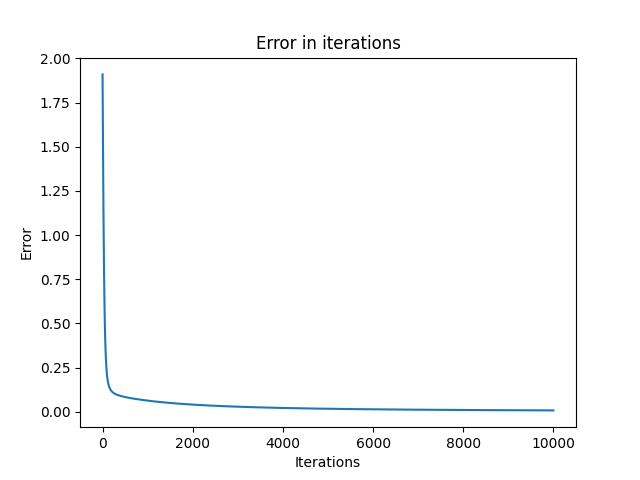
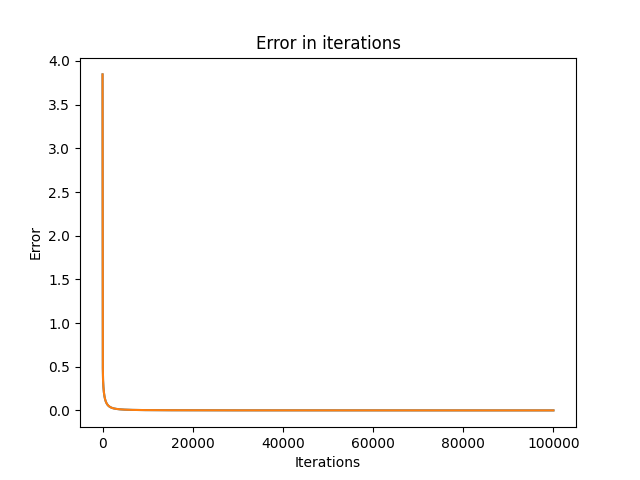
finish 3rd hmwork

diff --git a/neural_networks/neural_networks.py b/neural_networks/neural_networks.py
@@ -3,6 +3,8 @@ import numpy as np
 import matplotlib.pyplot as plt
 from random import random
 
+from data import features, targets, features_test, target_test
+
 class NeuralNetwork:
     def __init__(self):
         # Error Register
@@ -14,8 +16,8 @@ class NeuralNetwork:
     def __repr__(self):
         if self.trained == False:
             return 'No trained network'
-        return 'Neural Network:\n(Weights: {},\nBias: {},\nTrain: {})\n'\
-                .format(list(self.weights.reshape(len(self.weights))), float(self.bias), self.trained)
+        return 'Neural Network:\n(Weights: {},\nBias: {}, Train: {}, Error: {})\n'\
+                .format(list(self.weights.reshape(len(self.weights))), float(self.bias), self.trained, float(self.totError))
 
     @staticmethod
     def __sigmoid(x):
@@ -24,7 +26,7 @@ class NeuralNetwork:
     def __sigmoid_dx(self, x):
         return self.__sigmoid(x) * (1-self.__sigmoid(x))
 
-    def train(self, inputs:list, targets:list, iterations=10000, learning_rate=0.05, errorRange=0.001):
+    def train(self, inputs:list, targets:list, iterations=100000, learning_rate=0.05, errorRange=0.001):
         # Data for training
         self.inputs = np.array(list(inputs))
         self.samples, self.dendrites = self.inputs.shape
@@ -43,7 +45,7 @@ class NeuralNetwork:
             self.bias = random()
             self.totError = 0
             
-        while i in range(iterations) or self.totError < errorRange:
+        while i in range(iterations) or self.totError > errorRange:
             # prediction
             prediction_in = self.inputs @ self.weights + self.bias
             prediction_out = self.__sigmoid(prediction_in)
@@ -51,7 +53,7 @@ class NeuralNetwork:
             # Error
             error = prediction_out - self.targets
             self.totError = error.sum()
-            self.errorTrack.append(self.totError)
+            self.errorTrack.append(float(self.totError))
             
             # Calculate derivatives
             dprediction_dz = self.__sigmoid_dx(prediction_out)
@@ -94,29 +96,19 @@ class NeuralNetwork:
         assert self.trained and len(inputs) == self.dendrites
         inputs = np.array(inputs)
         prediction_in = inputs @ self.weights + self.bias
-        return 'Is True in {}%'.format(round(float(self.__sigmoid(prediction_in))*100, 2))
+        y = float(self.__sigmoid(prediction_in))
+        if y > 0.5:
+            return 'Is True in {}%'.format(round(y*100, 2))
+        else:
+            return 'Is False in {}%'.format(round((1-y)*100, 2))
 
-dataDict = {
-    'Sample': [1,2,3,4,5,6,7,8],
-    'Loss of Smell': [1,1,0,0,1,0,0,0],
-    'Weight Loss': [0,0,0,1,1,0,0,0],
-    'Runny Nose': [0,0,1,0,0,1,0,1],
-    'Body Pain': [1,0,1,0,0,1,1,0],
-    'Result': [1,1,0,0,1,1,0,0]
-}
-
-df = pd.DataFrame(dataDict)
-print(df)
-inputs = np.array(list(dataDict.values())[1:-1]).T
-targets = list(dataDict.values()).pop()
 
 # Neural Network Train
 nn1 = NeuralNetwork()
-nn1.train(inputs, targets)
+nn1.train(features, targets)
 nn1.saveTrain()
 
 # Network Prediction
 print(nn1)
-print(nn1.predict([1,0,0,1]))
-print(nn1.predict([0,0,1,0]))
-print(nn1.predict([1,0,1,0]))
+for test in features_test:
+    print(nn1.predict(test))

diff --git a/neural_networks/neural.py b/neural_networks/neural.py
@@ -1,0 +1,68 @@
+import numpy as np
+
+# put data here
+from data import features, targets, features_test, target_test
+print(features)
+
+def sig(x):
+    return 1/(1+np.exp(-x))
+
+# Hiperparameters
+n_hidden =  2
+epochs = 1000
+alpha = 0.05
+
+# dimensiones
+m, k = features.shape
+
+# pesos
+entrada_escondida = np.random.normal(scale= 1/k**0.5,
+                                     size = (k,n_hidden)
+                                     )
+escondida_salida = np.random.normal(scale= 1/k**0.5,
+                                     size = (n_hidden)
+                                     )
+# Entrenamiento
+
+for e in range(epochs):
+    # Variables para el gradiente
+    gradiente_entrada_escondida = np.zeros(entrada_escondida.shape)
+    gradiente_escondida_salida = np.zeros(escondida_salida.shape)
+    
+    # Itera sobre el conjunto de entrenamiento
+    for x, y in zip(features, targets):
+        # pasada hacia adelante (foward pass)
+        z = sig(np.matmul(x, entrada_escondida))
+        y_ = sig(np.matmul(escondida_salida, z)) # prediccion
+        
+        # Pasada hacia atras
+        salida_error = (y - y_) * y_ * (1 - y_)
+        escondida_error = np.dot(salida_error, escondida_salida) * z * (1 - z)
+        
+        gradiente_entrada_escondida += escondida_error * x[:, None]
+        gradiente_escondida_salida += salida_error * z
+    
+    # Actualizar los pesos
+    entrada_escondida += alpha * gradiente_entrada_escondida / m
+    escondida_salida += alpha * gradiente_escondida_salida / m
+    
+    if e % (epochs / 10) == 0:
+        z = sig(np.dot(features.values, entrada_escondida))
+        y_ = sig(np.dot(z, escondida_salida))
+        
+        # funcion de costo
+        costo = np.mean((y_ - targets)**2)
+        if ult_costo and ult_costo < costo:
+            print("Costo de Entrenamiento: ", costo, " y SUBIENDO")
+        else:
+            print("Costo de Entrenamiento: ", costo)
+        
+        ult_costo = costo
+    
+    # Presicion en los datos de prueba
+    z = sig(np.dot(features_test, entrada_escondida))
+    y_ = sig(np.dot(z, escondida_salida))
+    
+    predicciones = y_ > 0.5
+    presicion = np.mean(predicciones == target_test)
+    print("Presicion: {:.3f}".format(presicion))

diff --git a/neural_networks/data.py b/neural_networks/data.py
@@ -1,0 +1,15 @@
+import numpy as np
+featuresDict = {
+    'Analisis de Aceite': [0,1,0,1,0,1,0,1,1,1],
+    'Prueba de Factor de Potencia': [1,0,1,0,0,0,1,1,1,0],
+    'Prueba de Resistencia de Devanados': [0,1,1,1,0,1,0,0,1,0],
+    'Prueba de Relacion de Transformacion': [0,1,0,0,1,1,1,1,0,1],
+    'Prueba de Disparos y alarmas': [1,0,1,1,0,0,1,0,0,0],
+    'pruebas de Capacitancia en Bushings': [0,0,1,0,0,0,1,1,0,0]
+}
+features = np.array(list(featuresDict.values())).T
+# print(features)
+targets = np.array([0,1,1,0,0,1,1,1,0,0]).reshape(len(features),1)
+# print(targets)
+features_test = np.array([[0,1,0,1,1,1],[1,0,1,0,1,0]])
+target_test = np.array([1,0]).reshape(len(features_test),1)
